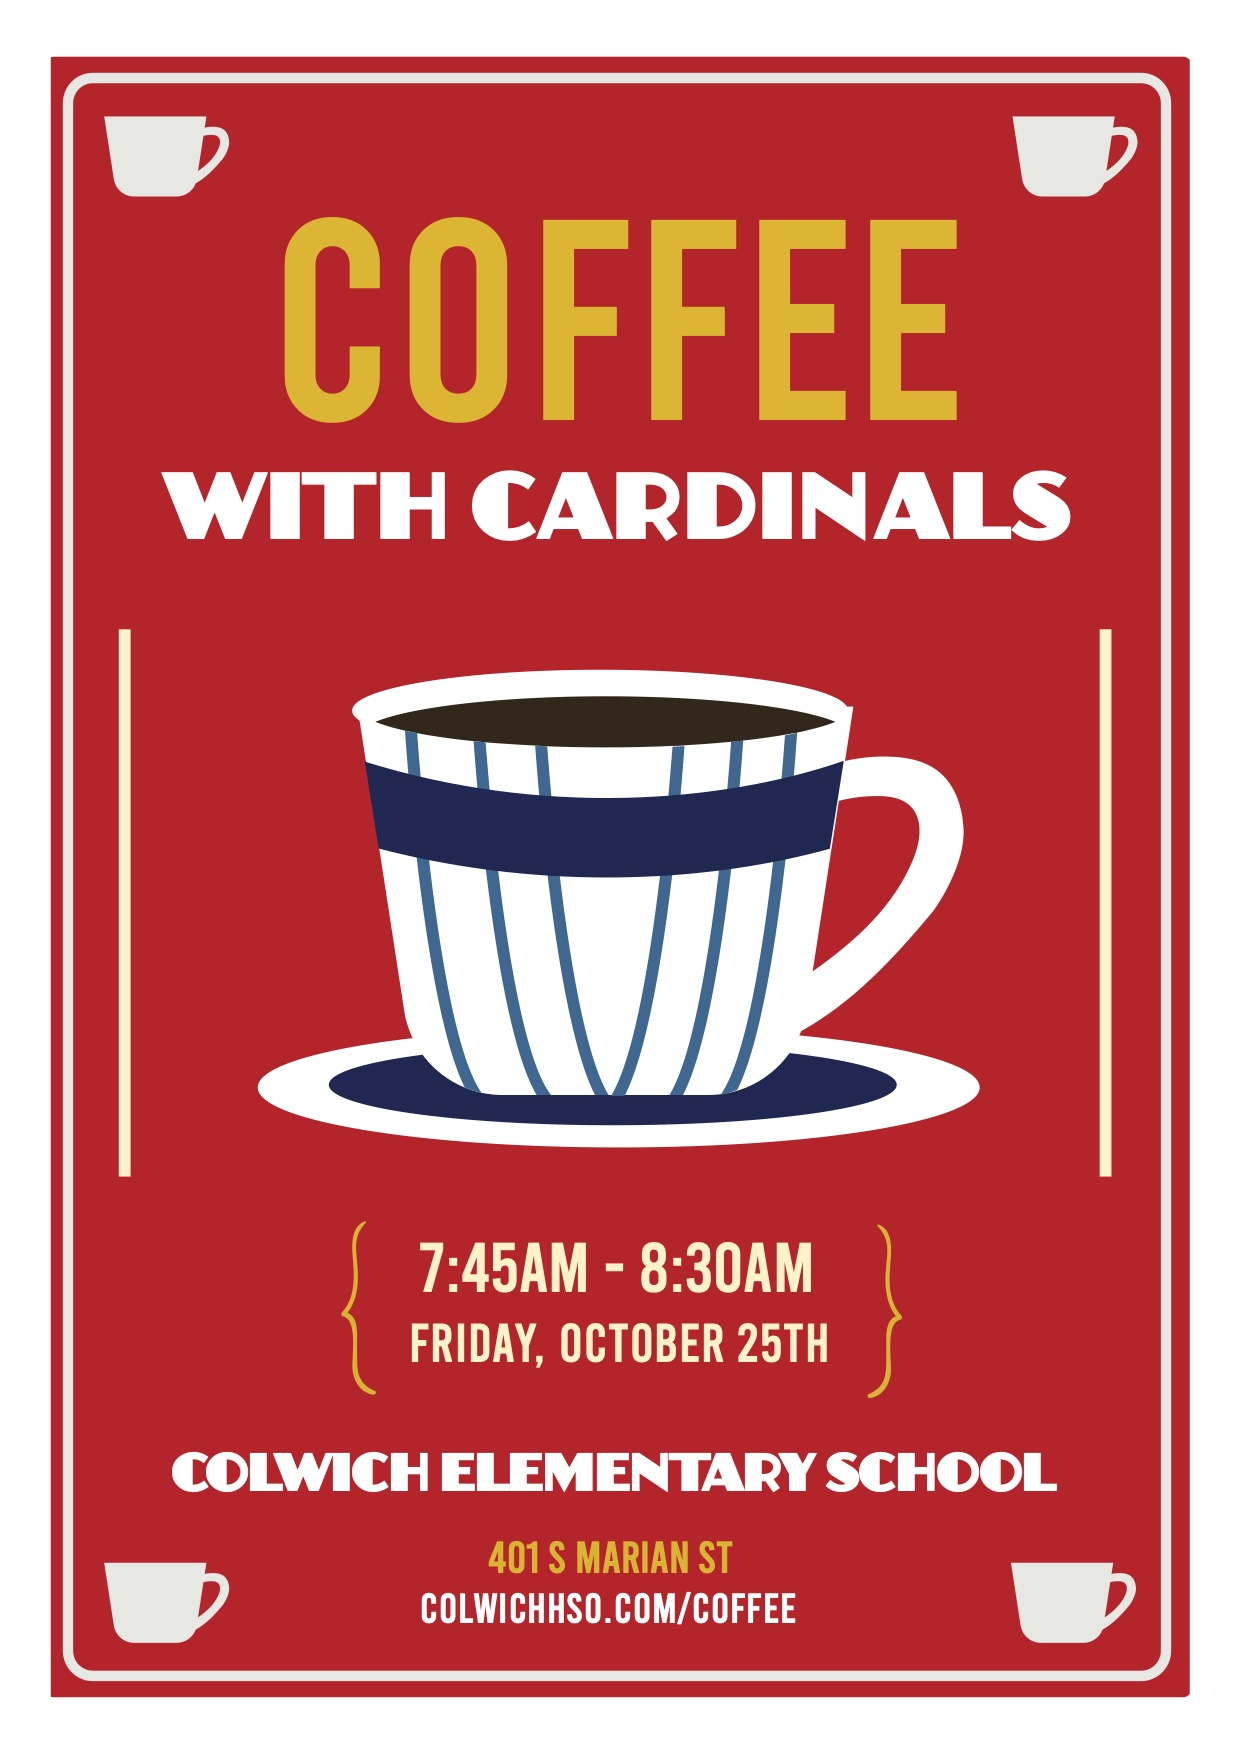
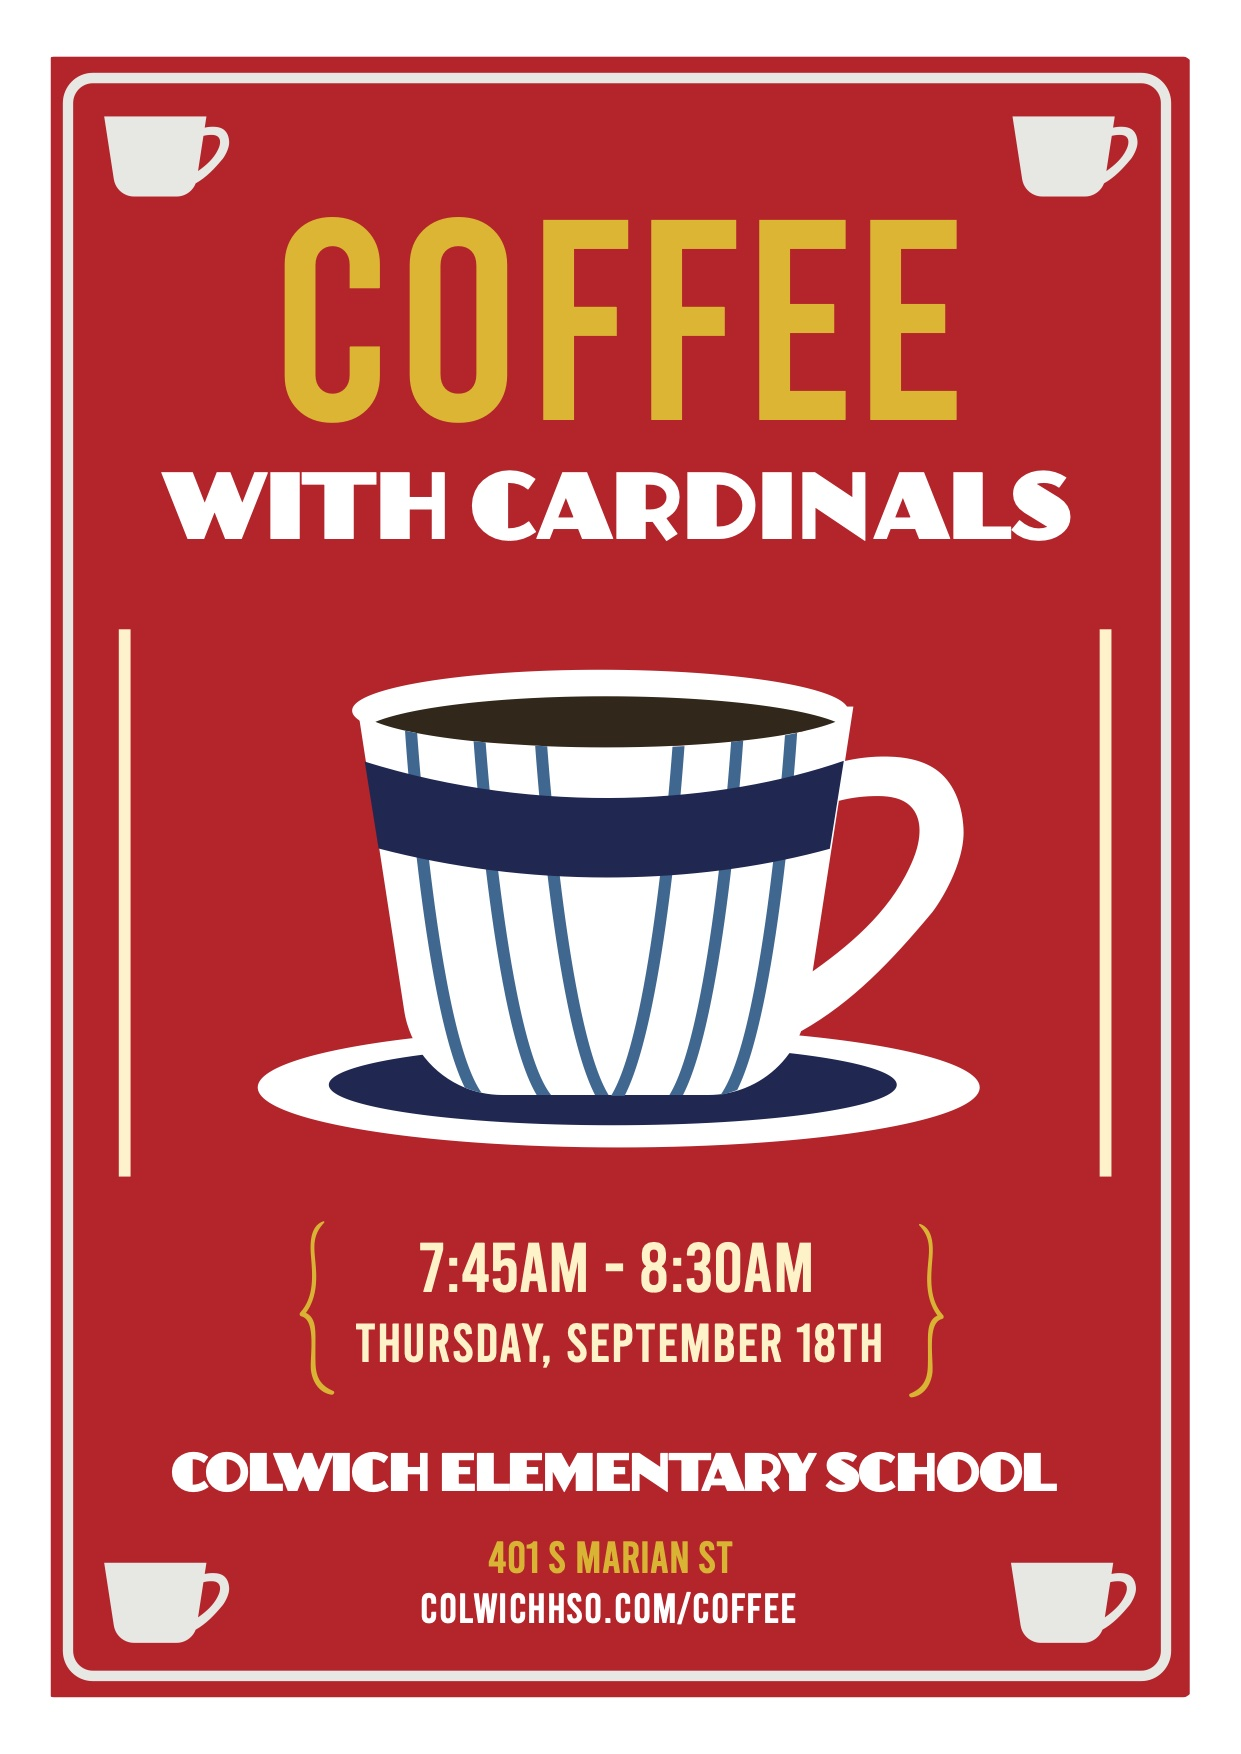
coffee

Changed region(s): [[0.245, 0.7081, 0.7655, 0.8005]]

diff --git a/content/events/coffeecardinals.md b/content/events/coffeecardinals.md
@@ -3,7 +3,7 @@ page_status: active
 title: Coffee With Cardinals ☕ 
 description: Get to know your teachers, school and fellow students at the beginning of the school year.
 type: events
-event_date: 2024-10-25 07:45:00 +0000
+event_date: 2025-09-18 07:45:00 +0000
 url: "/coffee"
 fullUrl: "https://colwichhso.com/coffee"
 pageImage: "https://colwichhso.com/images/flyers/CoffeeWithCardinalsOpenGraph.jpg"
@@ -22,4 +22,4 @@ polaroid:
 - /images/flyers/CoffeeWithCardinalsWeb.jpg
 - /images/flyers/CoffeeWithCardinalsWeb.jpg
 ---
-The 2024-25 school year has begun. Take a moment on October 25th, and join us for some coffee & donuts between 7:45am - 8:30am. A chance to meet fellow school families in the old gym and cafeteria.
+The 2024-25 school year has begun. Take a moment on September 18th, and join us for some coffee & donuts between 7:45am - 8:30am. A chance to meet fellow school families in the old gym and cafeteria.
